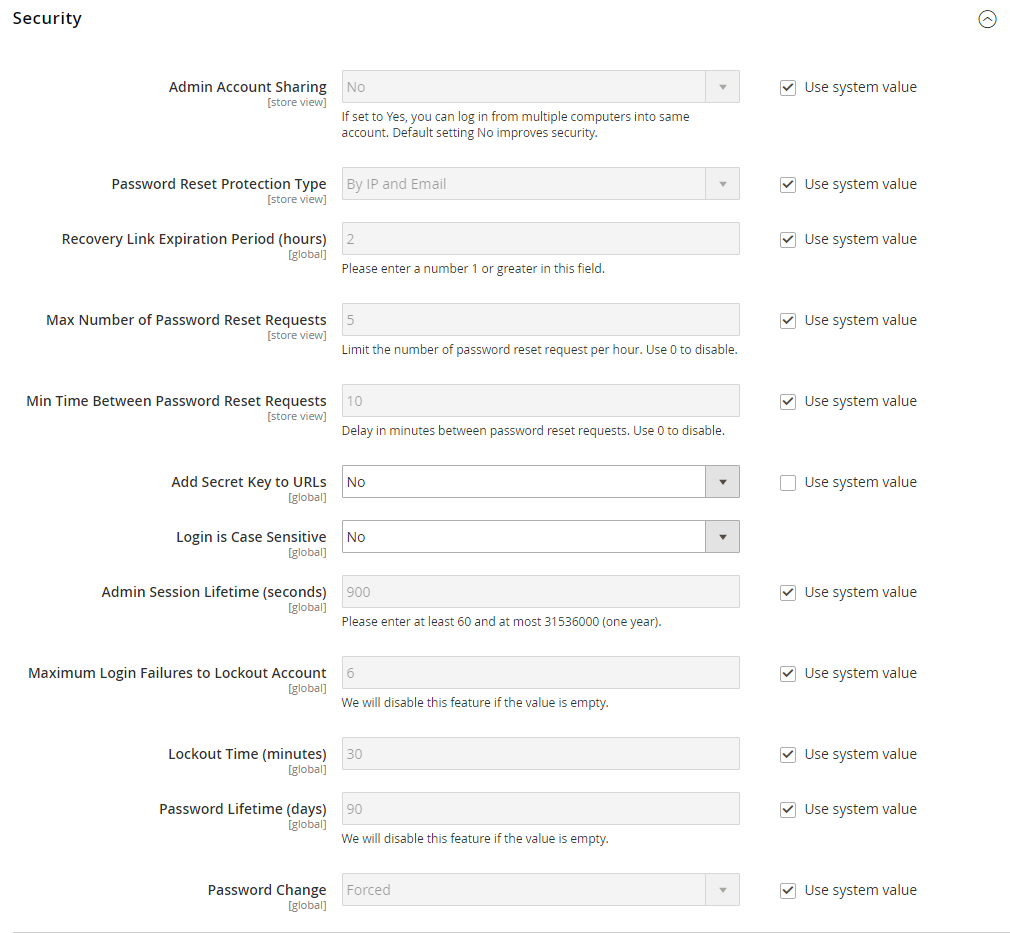
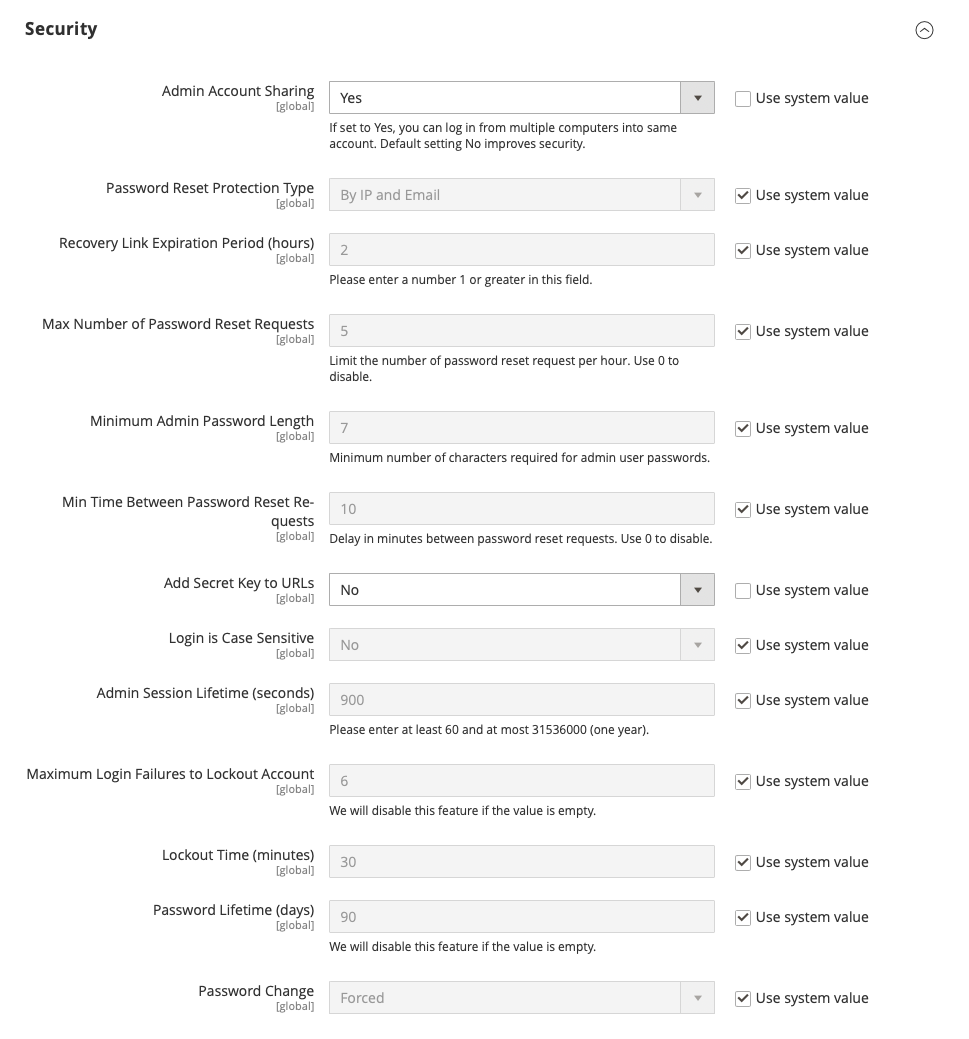
ACP2E-4109: Document Admin Minimum Password Length Configuration

diff --git a/help/systems/security-admin.md b/help/systems/security-admin.md
@@ -8,12 +8,13 @@ badgePaas: label="PaaS only" type="Informative" url="https://experienceleague.ad
 ---
 # Configure Admin security
 
-We recommend that you take a multifaceted approach to protect the security of your store. You can begin by using a [custom Admin URL](../stores-purchase/store-urls.md#use-a-custom-admin-url) that is not easy to guess, rather than the obvious "Admin" or "Backend." By default, passwords that are used to [log in](../getting-started/admin-signin.md) to the Admin must be seven or more characters long and include both letters and numbers. As a [best practice](https://experienceleague.adobe.com/docs/commerce-operations/implementation-playbook/best-practices/launch/security-best-practices.html), use only strong Admin passwords that include a combination of letters, numbers, and symbols. Adobe Commerce and Magento Open Source do not allow the reuse of the last four passwords assigned to the account.
+We recommend that you take a multifaceted approach to protect the security of your store. You can begin by using a [custom Admin URL](../stores-purchase/store-urls.md#use-a-custom-admin-url) that is not easy to guess, rather than the obvious "Admin" or "Backend." By default, passwords that are used to [log in](../getting-started/admin-signin.md) to the Admin must be seven or more characters long and include both letters and numbers. You can configure the minimum password length requirement to enhance security based on your organization's needs. As a [best practice](https://experienceleague.adobe.com/docs/commerce-operations/implementation-playbook/best-practices/launch/security-best-practices.html), use only strong Admin passwords that include a combination of letters, numbers, and symbols. Adobe Commerce and Magento Open Source do not allow the reuse of the last four passwords assigned to the account.
 
 The Admin security configuration gives you the ability to:
 
 - Add a secret key to URLs
 - Require passwords to be case-sensitive
+- Configure the minimum password length requirement
 - Limit the length of Admin sessions
 - Limit the lifetime of passwords
 - Limit the number of login attempts that can be made before the Admin user account is [locked](permissions-users-all.md#locked-users).
@@ -24,7 +25,7 @@ In addition to the security settings in this section, [two-factor authentication
 
 >[!NOTE]
 >
->Stores that have enabled [!DNL Adobe Identity Management Services] (IMS) authentication have native Adobe Commerce and Magento Open Source 2FA disabled. Admin users who are logged into their Commerce instance with their Adobe credentials do not need to reauthenticate for many Admin tasks. Authentication is handled by Adobe IMS when the Admin user logs into their current session. See [[!DNL Adobe Identity Management Service] (IMS) Integration Overview](../getting-started/adobe-ims-integration-overview.md).
+>Stores that have enabled [!DNL Adobe Identity Management Services] (IMS) authentication have native Adobe Commerce and Magento Open Source 2FA disabled. Admin users who are logged into their Commerce instance with their Adobe credentials do not need to reauthenticate for many Admin tasks. Authentication is handled by Adobe IMS when the Admin user logs into their current session. See [[!DNL Adobe Identity Management Service] (IMS) Integration Overview](../getting-started/adobe-ims-integration-overview.md).
 
 For technical information, see [Security overview](https://developer.adobe.com/commerce/php/architecture/basics/security/){:target="_blank"} in the developer documentation.
 
@@ -67,6 +68,12 @@ For technical information, see [Security overview](https://developer.adobe.com/c
 
 1. Set password options:
 
+   - For **[!UICONTROL Minimum Admin Password Length]**, enter the minimum number of characters required for Admin passwords. The default value is 7, and the minimum allowed value is 7.
+
+     >[!WARNING]
+     >
+     >Changing this value from the default may introduce backward compatibility issues with existing services. This setting affects Admin password changes, new Admin user creation from both the Admin interface and CLI, and password reset operations from the Admin.
+
    - To limit the lifetime of Admin passwords, enter the number of days a password is valid for **[!UICONTROL Password Lifetime (days)]**. For an unlimited lifetime, leave the field blank.
 
    - Set **[!UICONTROL Password Change]** to one of the following:
@@ -78,4 +85,4 @@ For technical information, see [Security overview](https://developer.adobe.com/c
 
 ## Admin password requirements
 
-By default, an Admin password must be seven or more characters long and include both letters and numbers.
+By default, an Admin password must be seven or more characters long and include both letters and numbers. You can configure the minimum password length requirement using the **[!UICONTROL Minimum Admin Password Length]** setting to meet your organization's security standards. However, increasing this value may affect compatibility with existing services and integrations.

diff --git a/help/getting-started/admin-signin.md b/help/getting-started/admin-signin.md
@@ -94,7 +94,7 @@ Reuse of the last four passwords assigned to the account is not allowed.
 
    >[!NOTE]
    >
-   >An _Admin_ password must be seven or more characters long and include both letters and numbers. See [Configuring _Admin_ Security](../systems/security-admin.md) for information about password options.
+   >An _Admin_ password must be seven or more characters long (by default) and include both letters and numbers. The minimum password length can be configured in the Admin security settings. See [Configuring _Admin_ Security](../systems/security-admin.md) for information about password options.
 
 ## Sign out of the Admin
 

diff --git a/help/systems/permissions-users-all.md b/help/systems/permissions-users-all.md
@@ -47,7 +47,7 @@ For users or roles that are temporary, you can also set an expiration date for t
 
       >[!NOTE]
       >
-      >An Admin password must be seven or more characters long and include both letters and numbers. For additional password options, see [Configuring Admin Security](security-admin.md).
+      >An Admin password must be seven or more characters long (by default) and include both letters and numbers. The minimum password length can be configured in the Admin security settings. For additional password options, see [Configuring Admin Security](security-admin.md).
 
    - For **[!UICONTROL Password Confirmation]**, reenter the password to make sure it was entered correctly.
 

diff --git a/help/configuration-reference/advanced/admin.md b/help/configuration-reference/advanced/admin.md
@@ -127,6 +127,7 @@ For more information about setting these options, see [Configure Admin security]
 | [!UICONTROL Admin Session Lifetime (seconds)]          | Global                                                                 | Determines the length of an Admin session in seconds.                                                                                                                                                                                                                                                                                                                                                                                                                                                                                                                                                  |
 | [!UICONTROL Maximum Login Failures to Lockout Account] | Global                                                                 | Determines the number of times Admin users can try to log in before their accounts are locked. If the field is empty, no minimum is set. Default value: `6`                                                                                                                                                                                                                                                                                                                                                                                                                                            |
 | [!UICONTROL Lockout Time (minutes)]                    | Global                                                                 | Determines the number of minutes an Admin account is locked before the user can try to log in again. Default value: `30`                                                                                                                                                                                                                                                                                                                                                                                                                                                                               |
+| [!UICONTROL Minimum Admin Password Length]             | Global                                                                 | Determines the minimum number of characters required for Admin passwords. The default value is 7, and the minimum allowed value is 7. This setting affects Admin password changes, new Admin user creation from both the Admin interface and CLI, and password reset operations from the Admin.                                                                                                                                                                                     |
 | [!UICONTROL Password Lifetime (days)]                  | Global                                                                 | Determines the number of days before an Admin password expires. If the field is empty, no lifetime is set. Default value: `90`                                                                                                                                                                                                                                                                                                                                                                                                                                                                         |
 | [!UICONTROL Password Change]                           | Global                                                                 | Determines if Admin users are required to change their passwords. Options: <br/>**`Forced`** - Requires that Admin users change their passwords after the account is set up. <br/>**`Recommended`** - Recommends that Admin users change their passwords after the account is set up.                                                                                                                                                                                                                                                                                                                  |
 